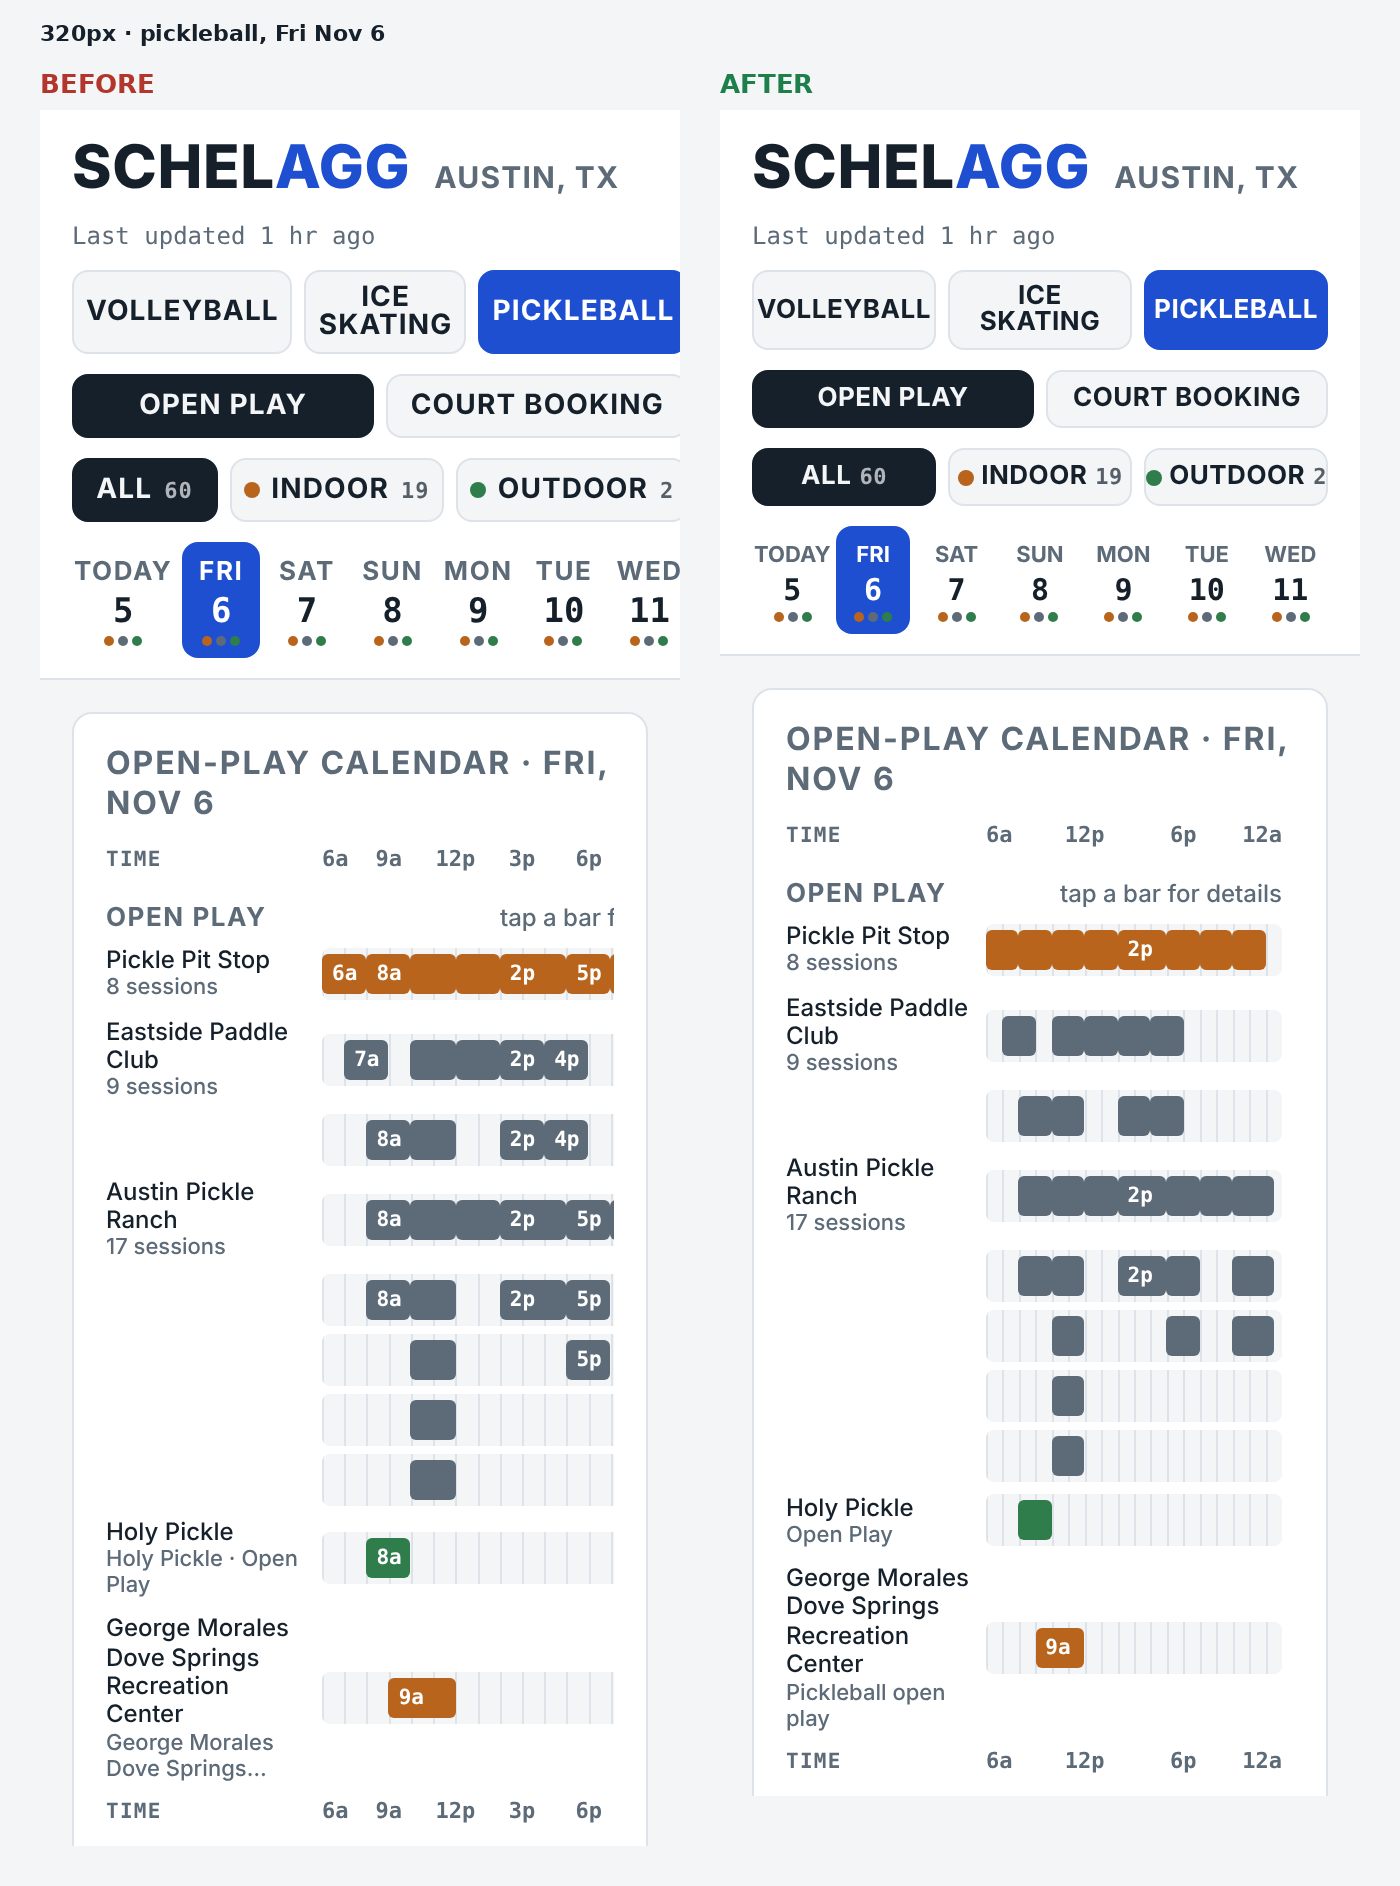
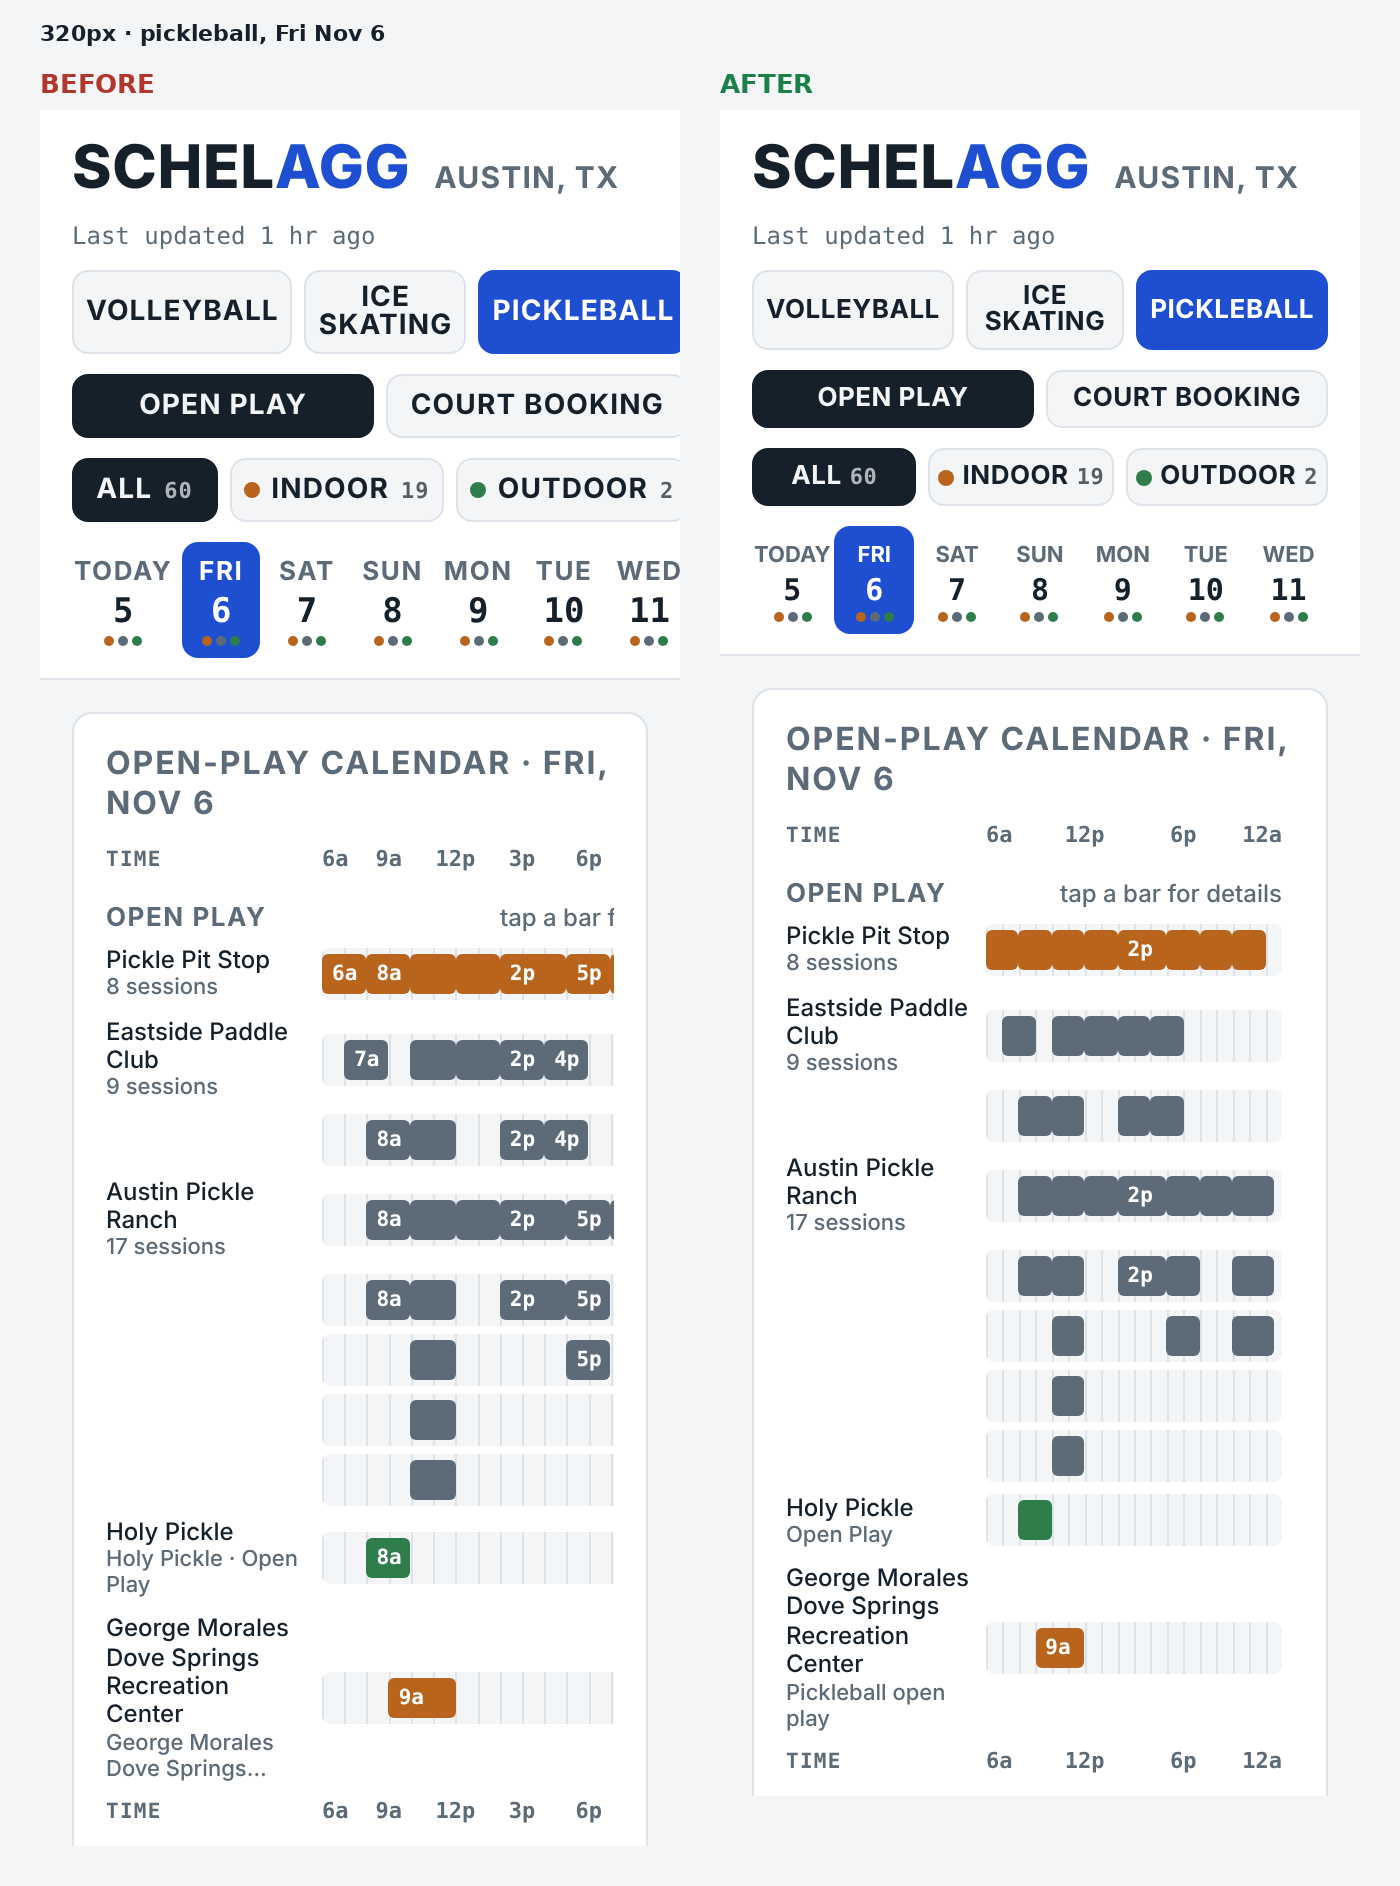
Tabs wrap instead of shrinking, so no font can push a 320px page sideways
CI's fallback fonts are wider than local ones; the e2e check caught the header tabs overflowing.
Tab rows now wrap to a second line when they don't fit; the week strip tightens its gap at 360px
and below. The e2e failure message names what was too wide.

Claude-Session: https://claude.ai/code/session_01EVqFjfWnKd5c1czrZQCm7n

diff --git a/public/styles.css b/public/styles.css
@@ -40,9 +40,9 @@ header .wrap{padding-block:14px 10px;display:grid;gap:10px}
 h1{font:800 30px/1 var(--display);letter-spacing:.01em;margin:0;text-transform:uppercase}
 h1 span{color:var(--accent)}
 .asof{font:500 12px var(--mono);color:var(--muted)}
-.tabs{display:flex;gap:6px}
+/* Tabs wrap to a second line rather than push the page wider when a screen (or a fallback font) is too narrow. */
+.tabs{display:flex;flex-wrap:wrap;gap:6px}
 .tab{flex:1;border:1px solid var(--line);background:var(--bg);color:var(--ink);border-radius:8px;padding:8px 6px;font:700 16px/1 var(--display);text-transform:uppercase;letter-spacing:.04em;cursor:pointer;display:flex;align-items:center;justify-content:center;gap:6px}
-.tab{min-width:0}
 .tab .dot{flex-shrink:0;width:8px;height:8px;border-radius:50%;background:var(--c,var(--accent))}
 .tab[aria-pressed="true"]{background:var(--ink);color:var(--bg);border-color:var(--ink)}
 .tab .n{font:600 11px var(--mono);opacity:.7}
@@ -50,7 +50,7 @@ h1 span{color:var(--accent)}
 .tabs.sports .tab{padding:6px}
 .tabs.sports .tab[aria-pressed="true"]{background:var(--accent);color:var(--accent-ink);border-color:var(--accent)}
 .days{display:grid;grid-template-columns:repeat(7,minmax(0,1fr));gap:4px}
-.day{border:1px solid transparent;background:none;color:var(--ink);border-radius:8px;padding:6px 0 5px;cursor:pointer;display:grid;gap:2px;justify-items:center}
+.day{min-width:0;border:1px solid transparent;background:none;color:var(--ink);border-radius:8px;padding:6px 0 5px;cursor:pointer;display:grid;gap:2px;justify-items:center}
 .day .dn{font:700 13px var(--display);text-transform:uppercase;letter-spacing:.06em;color:var(--muted)}
 .day .dd{font:600 17px var(--mono)}
 .day .pips{display:flex;gap:2px;height:5px}
@@ -138,7 +138,7 @@ a.g-bar:hover{filter:brightness(1.12)}
 .book{font:600 12px var(--body);color:var(--accent);text-decoration:none}
 @media (max-width:440px){.row{grid-template-columns:70px 1fr}.tab{font-size:14px}}
 /* 320–360px phones: tabs and the week strip fit the screen instead of pushing the page sideways. */
-@media (max-width:360px){.tab{font-size:13px;letter-spacing:.02em;padding:7px 4px;gap:4px}.day .dn{font-size:11px;letter-spacing:0}.day .dd{font-size:15px}}
+@media (max-width:360px){.days{gap:2px}.tab{font-size:13px;letter-spacing:.02em;padding:7px 4px;gap:4px}.day .dn{font-size:11px;letter-spacing:0}.day .dd{font-size:15px}}
 /* A narrow chart labels every other hour mark (6a, 12p, 6p, 12a) so they don't run together. */
 @media (max-width:420px){.g-axis .g-track span:nth-child(even){display:none}}
 @media (prefers-reduced-motion:no-preference){.row{transition:opacity .15s}}
